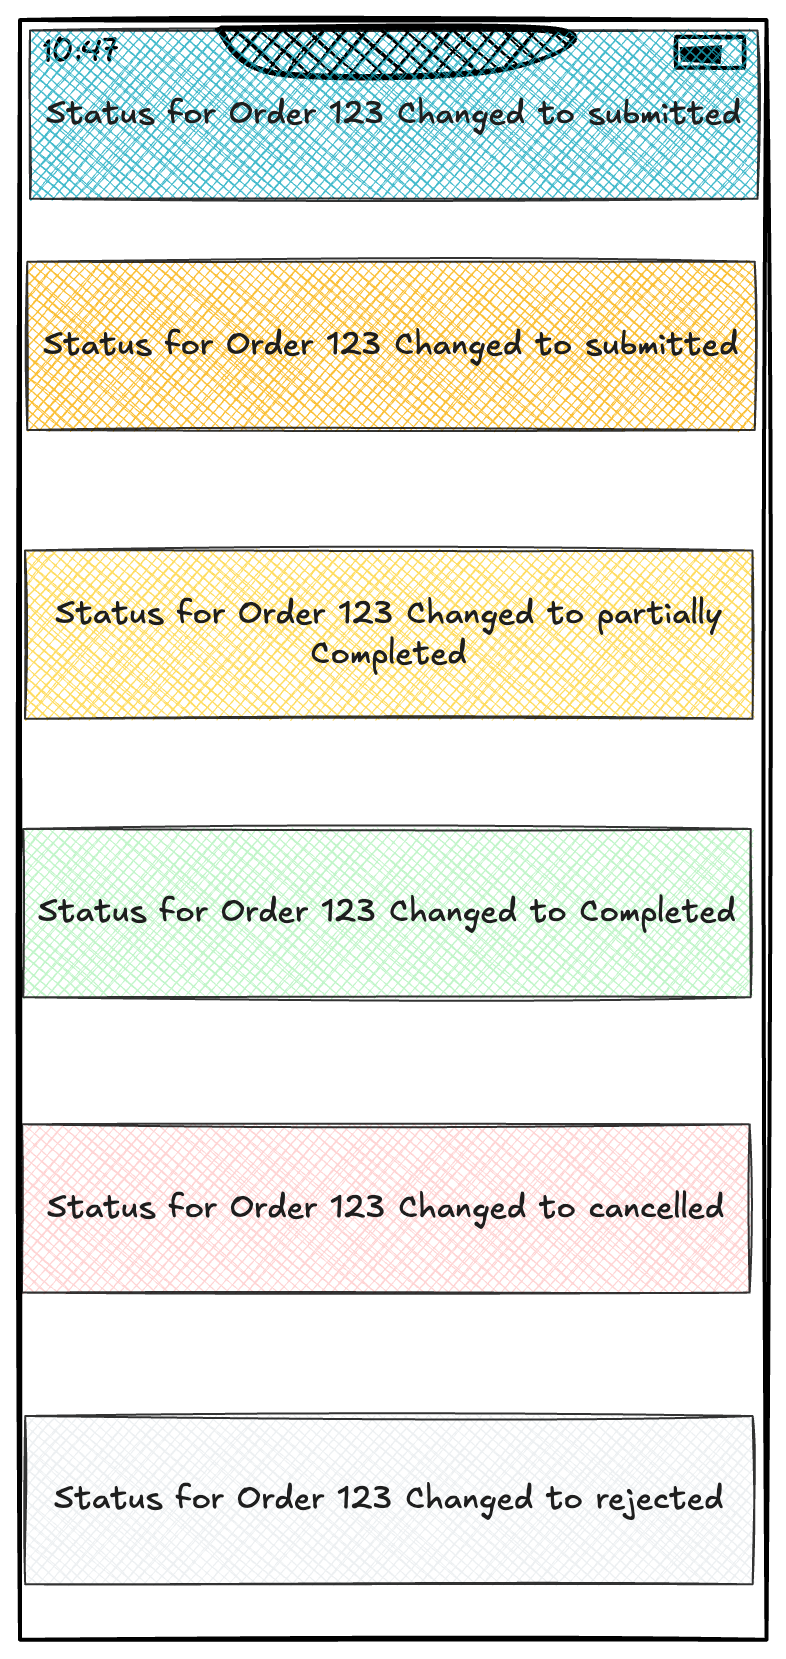
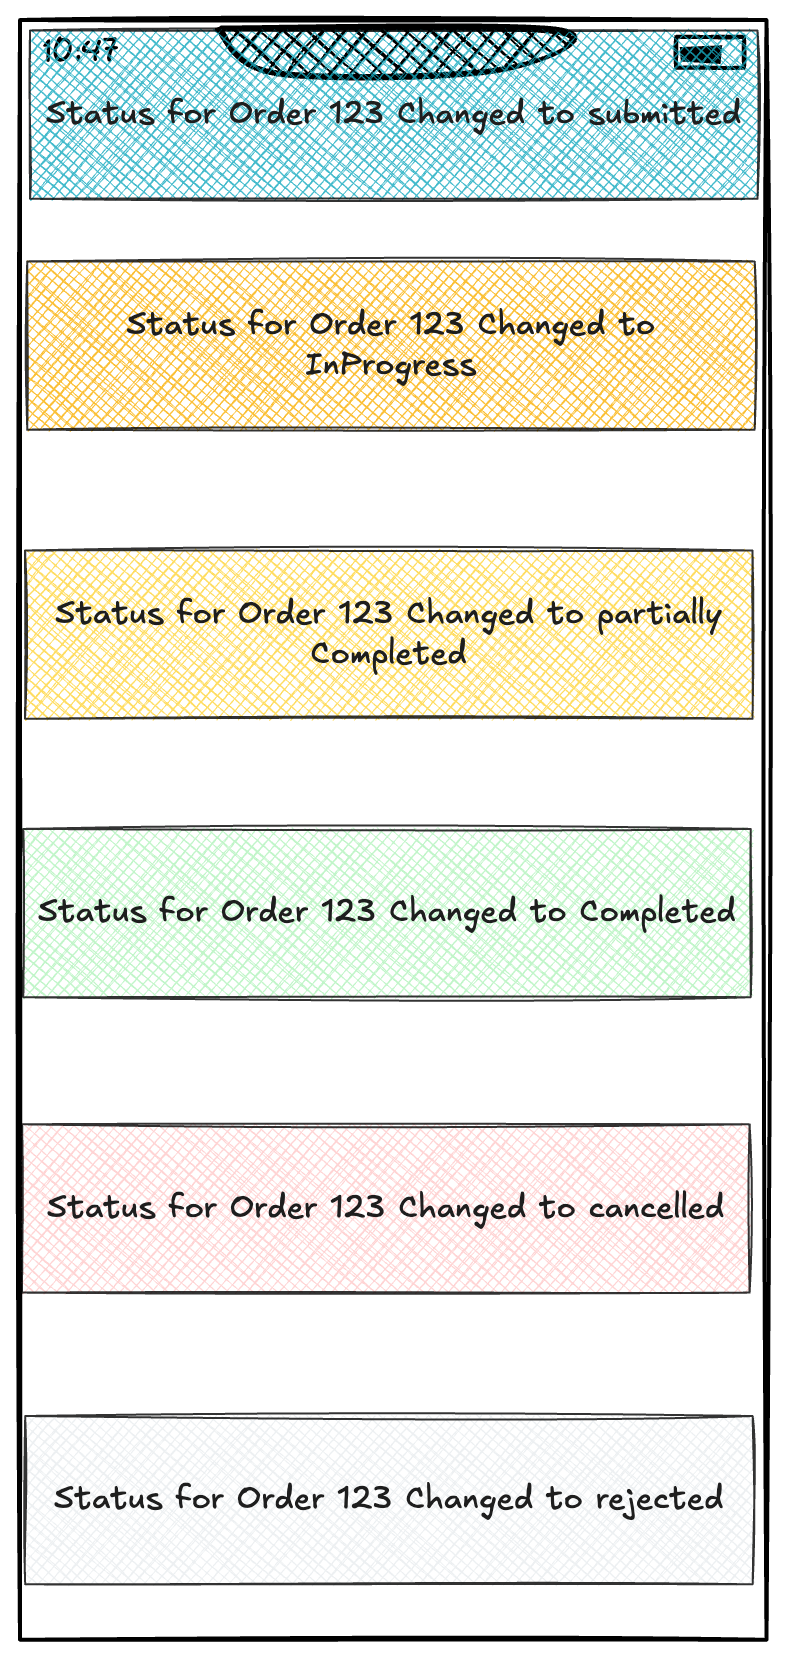
fix friendly strings

Changed region(s): [[0.0305, 0.1537, 0.9771, 0.2767]]

diff --git a/src/Models/Events/OrderState+Display.swift b/src/Models/Events/OrderState+Display.swift
@@ -8,7 +8,7 @@ extension OrderStatus {
     /// | Status            | Title                |
     /// |-------------------|----------------------|
     /// | `.submitted`      | "Submitted"          |
-    /// | `.routed`         | "Routed"             |
+    /// | `.routed`         | "InProgress"             |
     /// | `.partiallyFilled`| "Partially Completed"|
     /// | `.filled`         | "Completed"          |
     /// | `.cancelled`      | "Cancelled"          |
@@ -17,7 +17,7 @@ extension OrderStatus {
     var title: String {
         switch self {
         case .submitted: "Submitted"
-        case .routed: "Routed"
+        case .routed: "InProgress"
         case .partiallyFilled: "Partially Completed"
         case .filled: "Completed"
         case .cancelled: "Cancelled"
